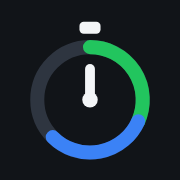
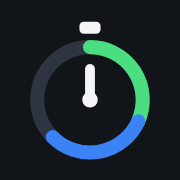
Vert plus clair pour l'effort et violet plus vif pour la fin
Claude-Session: https://claude.ai/code/session_0195FScBqiBXZ8uka52nBB2Z

Changed region(s): [[0.4444, 0.2222, 0.8333, 0.6667]]

diff --git a/app.js b/app.js
@@ -189,7 +189,7 @@
   const LABELS = { prep: 'PRÉPARE-TOI', work: 'EFFORT', rest: 'REPOS', done: 'BRAVO !' };
   const NEXT = { prep: 'Préparation', work: 'Effort', rest: 'Repos' };
   const themeMeta = document.querySelector('meta[name="theme-color"]');
-  const PHASE_COLORS = { prep: '#f59e0b', work: '#22c55e', rest: '#3b82f6', done: '#a855f7' };
+  const PHASE_COLORS = { prep: '#f59e0b', work: '#4ade80', rest: '#3b82f6', done: '#b026ff' };
 
   let run = null;
   let loop = null;

diff --git a/sw.js b/sw.js
@@ -1,5 +1,5 @@
 // Cache hors ligne. Changer VERSION à chaque mise à jour des fichiers.
-const VERSION = 'timer-v1';
+const VERSION = 'timer-v2';
 const FILES = [
   './', 'index.html', 'style.css', 'app.js', 'manifest.webmanifest',
   'icons/icon.svg', 'icons/icon-192.png', 'icons/icon-512.png', 'icons/apple-touch-icon.png',

diff --git a/style.css b/style.css
@@ -5,11 +5,11 @@
   --text: #f3f5f7;
   --muted: #8b95a3;
   --line: #2e3540;
-  --work: #22c55e;
+  --work: #4ade80;
   --rest: #3b82f6;
   --prep: #f59e0b;
-  --done: #a855f7;
-  --primary: #22c55e;
+  --done: #b026ff;
+  --primary: #4ade80;
   --primary-text: #06240f;
   --radius: 18px;
   color-scheme: dark;
